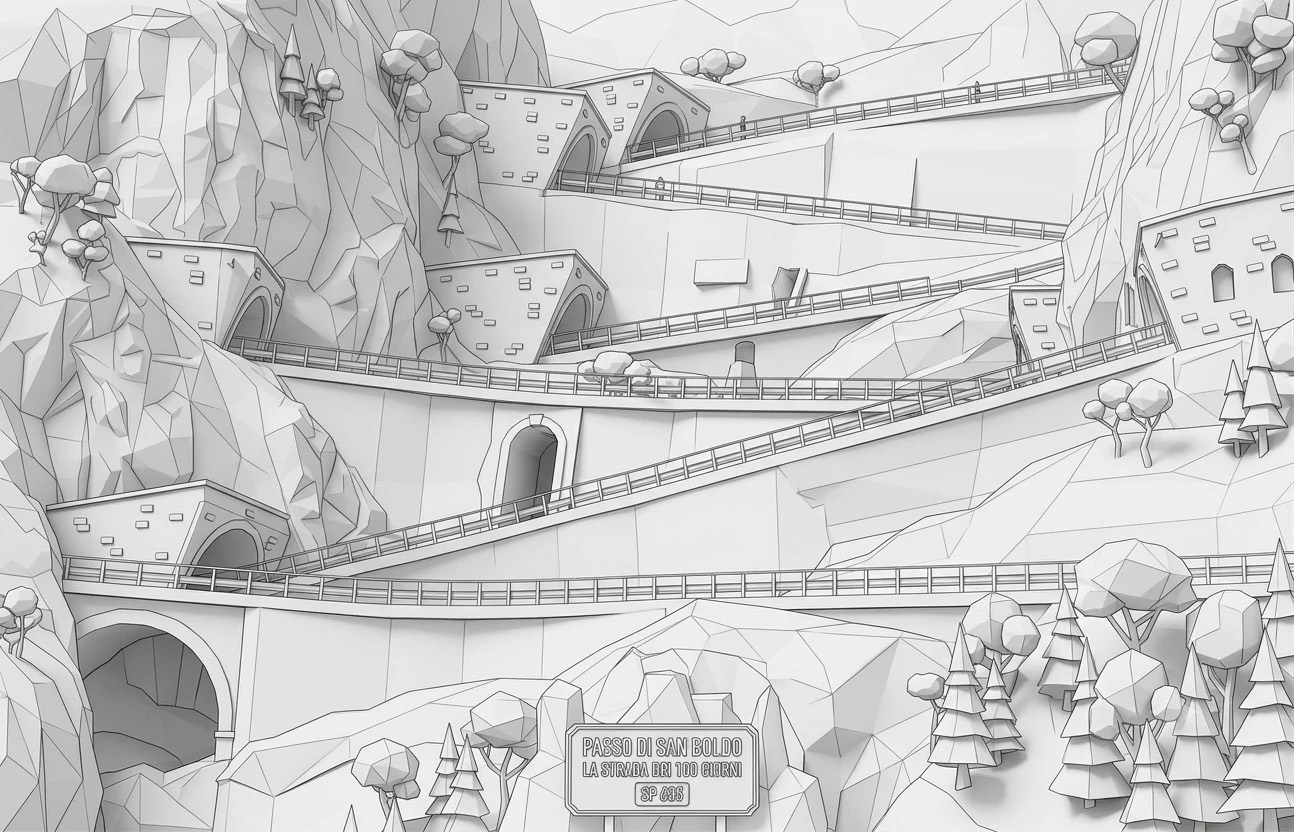
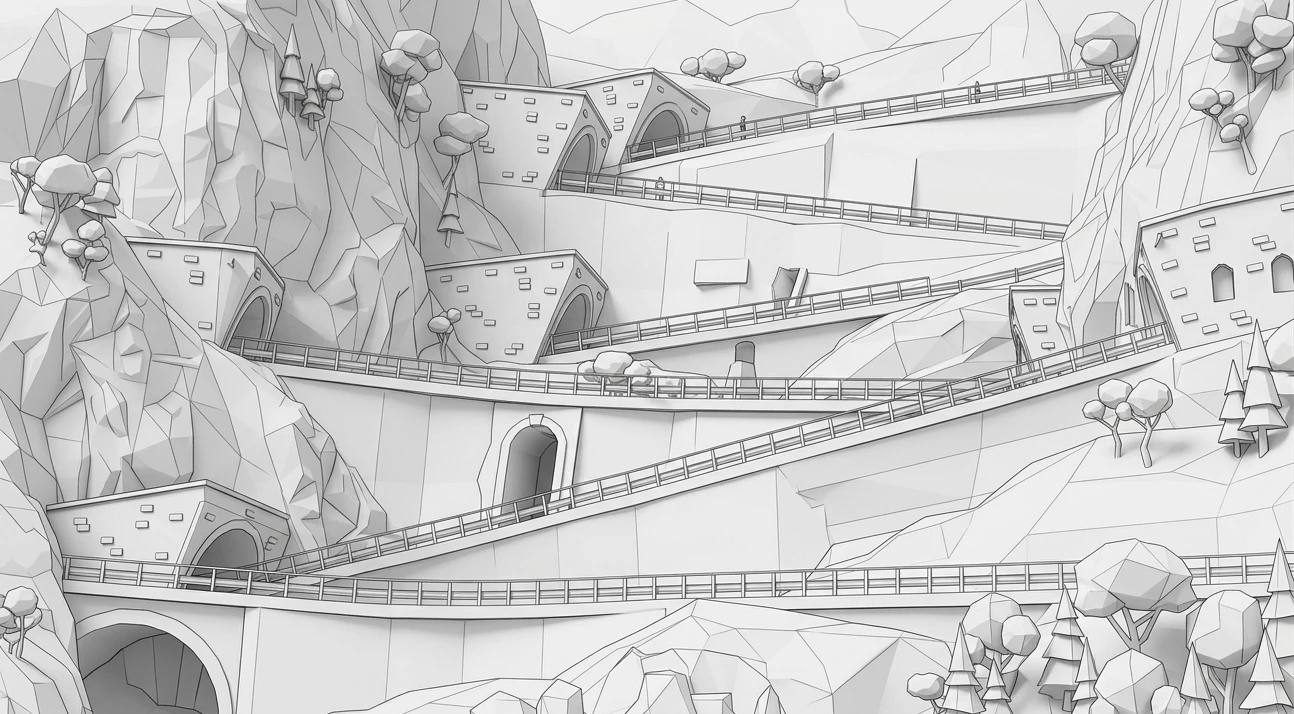
Tira a placa da ilustração da capa das Etapas

diff --git a/app/index.html b/app/index.html
@@ -16,9 +16,9 @@
 <meta name="apple-mobile-web-app-title" content="Grand Tour">
 <link rel="apple-touch-icon" href="assets/img/icone-180.png">
 
-<link rel="stylesheet" href="assets/fonts/fonts.css?v=97">
-<link rel="stylesheet" href="css/tokens.css?v=97">
-<link rel="stylesheet" href="css/app.css?v=97">
+<link rel="stylesheet" href="assets/fonts/fonts.css?v=98">
+<link rel="stylesheet" href="css/tokens.css?v=98">
+<link rel="stylesheet" href="css/app.css?v=98">
 </head>
 <body>
 
@@ -31,35 +31,35 @@
 <div id="folha" class="folha" hidden aria-modal="true" role="dialog"></div>
 <div id="estado-rede" class="estado-rede" hidden aria-live="polite"></div>
 
-<script src="js/lib/zip.js?v=97"></script>
-<script src="js/silhuetas.js?v=97"></script>
-<script src="js/estradas.js?v=97"></script>
-<script src="js/percursos.js?v=97"></script>
-<script src="js/icones.js?v=97"></script>
-<script src="js/imagens.js?v=97"></script>
-<script src="js/semente.js?v=97"></script>
-<script src="js/ui.js?v=97"></script>
-<script src="js/fotos.js?v=97"></script>
-<script src="js/nuvem.js?v=97"></script>
-<script src="js/conteudo.js?v=97"></script>
-<script src="js/store.js?v=97"></script>
-<script src="js/views/entrada.js?v=97"></script>
-<script src="js/views/chegada.js?v=97"></script>
-<script src="js/views/hoje.js?v=97"></script>
-<script src="js/views/roadbook.js?v=97"></script>
-<script src="js/views/poi.js?v=97"></script>
-<script src="js/views/etapas.js?v=97"></script>
-<script src="js/views/galeria.js?v=97"></script>
-<script src="js/views/foto.js?v=97"></script>
-<script src="js/views/concierge.js?v=97"></script>
-<script src="js/views/carro.js?v=97"></script>
-<script src="js/views/album.js?v=97"></script>
-<script src="js/views/mais.js?v=97"></script>
-<script src="js/views/org.js?v=97"></script>
-<script src="js/views/org-etapa.js?v=97"></script>
-<script src="js/views/org-fotos.js?v=97"></script>
-<script src="js/views/org-pessoas.js?v=97"></script>
-<script src="js/views/org-contactos.js?v=97"></script>
-<script src="js/app.js?v=97"></script>
+<script src="js/lib/zip.js?v=98"></script>
+<script src="js/silhuetas.js?v=98"></script>
+<script src="js/estradas.js?v=98"></script>
+<script src="js/percursos.js?v=98"></script>
+<script src="js/icones.js?v=98"></script>
+<script src="js/imagens.js?v=98"></script>
+<script src="js/semente.js?v=98"></script>
+<script src="js/ui.js?v=98"></script>
+<script src="js/fotos.js?v=98"></script>
+<script src="js/nuvem.js?v=98"></script>
+<script src="js/conteudo.js?v=98"></script>
+<script src="js/store.js?v=98"></script>
+<script src="js/views/entrada.js?v=98"></script>
+<script src="js/views/chegada.js?v=98"></script>
+<script src="js/views/hoje.js?v=98"></script>
+<script src="js/views/roadbook.js?v=98"></script>
+<script src="js/views/poi.js?v=98"></script>
+<script src="js/views/etapas.js?v=98"></script>
+<script src="js/views/galeria.js?v=98"></script>
+<script src="js/views/foto.js?v=98"></script>
+<script src="js/views/concierge.js?v=98"></script>
+<script src="js/views/carro.js?v=98"></script>
+<script src="js/views/album.js?v=98"></script>
+<script src="js/views/mais.js?v=98"></script>
+<script src="js/views/org.js?v=98"></script>
+<script src="js/views/org-etapa.js?v=98"></script>
+<script src="js/views/org-fotos.js?v=98"></script>
+<script src="js/views/org-pessoas.js?v=98"></script>
+<script src="js/views/org-contactos.js?v=98"></script>
+<script src="js/app.js?v=98"></script>
 </body>
 </html>

diff --git a/app/css/app.css b/app/css/app.css
@@ -850,7 +850,7 @@ a { color: var(--verde); text-decoration: none; }
 /* A capa das Etapas é uma ilustração, não uma fotografia: mostra-se
    inteira, na proporção dela, e o véu só escurece o fundo, onde
    assenta o título. */
-.capa--ilustracao { aspect-ratio: 1294 / 832; min-height: 0; }
+.capa--ilustracao { aspect-ratio: 1294 / 714; min-height: 0; }
 /* A ilustração é clara: o véu sobe mais e fecha mais, para o
    subtítulo passar AA por cima dela. */
 .capa--ilustracao::after {

diff --git a/app/sw.js b/app/sw.js
@@ -8,7 +8,7 @@
 /* Subir esta versão sempre que se publica: força a reinstalação do
    cache e é o que faz chegar conteúdo novo aos telemóveis. Deve
    acompanhar o ?v= dos ficheiros em index.html. */
-const VERSAO = 'passeio-v97';
+const VERSAO = 'passeio-v98';
 
 const CONCHA = [
   './',

diff --git a/CLAUDE.md b/CLAUDE.md
@@ -165,7 +165,7 @@ O código de acesso da organização (`2026`, em `js/views/mais.js`) é uma port
 | Percursos dos dias | `js/percursos.js` — estrada calculada pelo OSRM com as âncoras do programa. **A tarde do dia 3 é dedução** (Passo Rolle e Passo Valles, pelo «dos 170 aos 2000 metros» da proposta) e vai a tracejado. Tudo por confirmar com a Stappando |
 | Waypoints âncora | `ui.js` › `ANCORAS` — da rota real, lidos do programa (Strada Cadorna; San Boldo por Trichiana e Tovena; o Cansiglio pelo Alpago). **Por confirmar com a organização**; os troços do dia 3 pelos vales ainda não têm. Só servem o link de recurso |
 | Horas por confirmar | `semente.js` › `roteiro` — a chegada do dia 1 (aeroportos, levantamento dos carros, hotel) não tem hora na proposta; a app mostra *A confirmar* |
-| Fotografias | `assets/fotos/` — as oficiais de cada sítio (hotéis, restaurantes, museus, ateliê) e Pixabay para Veneza e San Boldo, usadas sem créditos por decisão da organização, que trata da autorização. Sem fotografia, fica o desenho de `imagens.js`. A capa das Etapas é uma ilustração do San Boldo, dada pelo Tiago a 26.09.2026 (`san-boldo-ilustracao.jpg`) |
+| Fotografias | `assets/fotos/` — as oficiais de cada sítio (hotéis, restaurantes, museus, ateliê) e Pixabay para Veneza e San Boldo, usadas sem créditos por decisão da organização, que trata da autorização. Sem fotografia, fica o desenho de `imagens.js`. A capa das Etapas é uma ilustração do San Boldo, dada pelo Tiago a 26.09.2026 (`san-boldo-ilustracao.jpg`), cortada por cima da placa, que tinha o nome errado |
 | Silhuetas dos carros | `silhuetas.js` — em tamanho de leitura, desenho a traço na cor do texto; em etiqueta, o perfil cheio na cor do carro. Só há traço do DB12, vetorizado de um desenho de terceiros (licença por confirmar) e usado também por DB11, Vanquish, DBS e Vantage. DB12 Volante, DBX707 e Valhalla continuam com o perfil antigo, só em linha |
 | Cores de carroçaria | `silhuetas.js` › `CORES` — hexadecimais aproximados |
 | Código da organização | `js/views/mais.js` |
